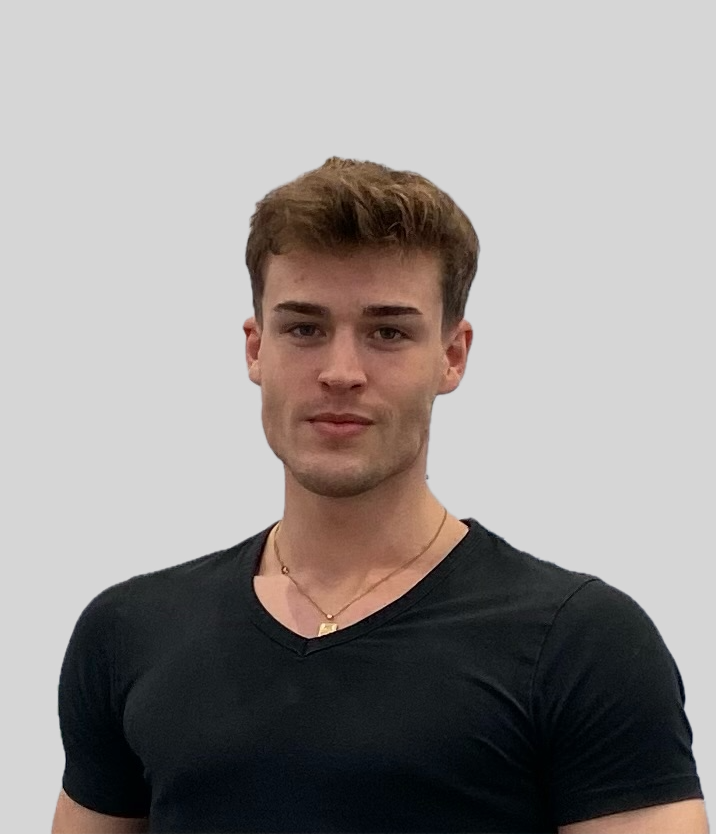
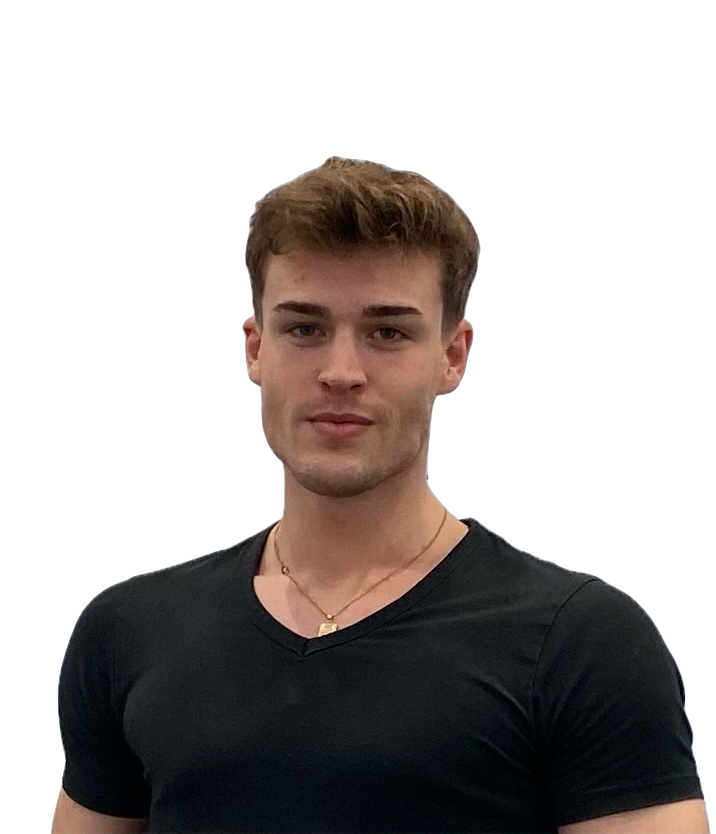
Refactor CSS styles to use CSS variables for improved maintainability and enhance design with new marbled background

diff --git a/assets/styles/design-study.css b/assets/styles/design-study.css
@@ -1,3 +1,10 @@
+/* Shared colors for the current design palette. */
+:root {
+  --dark-accent: #293d46;
+  --portrait-background: #738080;
+  --light-panel-ink: #34474d;
+}
+
 :root {
   --ink: #293b44;
   --navy: #334650;
@@ -992,16 +999,16 @@ body {
 }
 
 .portrait-frame {
-  background-color: #738080;
+  background-color: var(--portrait-background);
 }
 
 .intro-section {
   background: #d6d4c9;
-  color: #34474d;
+  color: var(--light-panel-ink);
 }
 
 .intro-body h2 {
-  color: #34474d;
+  color: var(--light-panel-ink);
 }
 
 .intro-columns .muted {
@@ -1029,7 +1036,7 @@ body {
 }
 
 .projects-section {
-  background: #293d46;
+  background: var(--dark-accent);
 }
 
 .featured-project {
@@ -1065,4 +1072,63 @@ body {
 .footer p,
 .footer-inner>span {
   color: #bec9c4;
+}
+/* Evenly distributed slate and warm-gray marbling. */
+body {
+  background-color: #536168;
+  background-image:
+    radial-gradient(ellipse 18% 7% at 89% 10%, rgba(217, 194, 166, 0.083), transparent 75%),
+    radial-gradient(ellipse 17% 6% at 96% 33%, rgba(227, 183, 145, 0.075), transparent 75%),
+    radial-gradient(ellipse 18% 7% at 83% 50%, rgba(196, 209, 196, 0.075), transparent 75%),
+    radial-gradient(ellipse 17% 7% at 97% 69%, rgba(221, 180, 145, 0.075), transparent 75%),
+    radial-gradient(ellipse 18% 7% at 79% 80%, rgba(204, 210, 190, 0.075), transparent 75%),
+    radial-gradient(ellipse 15% 5% at 9% 7%, rgba(233, 185, 144, 0.075), transparent 75%),
+    radial-gradient(ellipse 17% 6% at 48% 19%, rgba(195, 209, 199, 0.075), transparent 75%),
+    radial-gradient(ellipse 16% 5% at 94% 22%, rgba(231, 181, 140, 0.068), transparent 75%),
+    radial-gradient(ellipse 16% 6% at 16% 29%, rgba(197, 210, 199, 0.068), transparent 75%),
+    radial-gradient(ellipse 17% 5% at 69% 40%, rgba(232, 190, 147, 0.075), transparent 75%),
+    radial-gradient(ellipse 15% 6% at 38% 46%, rgba(194, 208, 200, 0.075), transparent 75%),
+    radial-gradient(ellipse 18% 6% at 93% 55%, rgba(228, 180, 138, 0.068), transparent 75%),
+    radial-gradient(ellipse 16% 6% at 18% 66%, rgba(222, 180, 146, 0.075), transparent 75%),
+    radial-gradient(ellipse 16% 5% at 56% 73%, rgba(193, 209, 200, 0.075), transparent 75%),
+    radial-gradient(ellipse 17% 6% at 88% 91%, rgba(231, 188, 147, 0.075), transparent 75%),
+    radial-gradient(ellipse 17% 5% at 45% 96%, rgba(199, 210, 196, 0.068), transparent 75%),
+    radial-gradient(ellipse 24% 12% at 15% 12%, rgba(221, 175, 137, 0.075), transparent 75%),
+    radial-gradient(ellipse 25% 12% at 70% 13%, rgba(200, 203, 184, 0.075), transparent 75%),
+    radial-gradient(ellipse 25% 12% at 37% 31%, rgba(200, 193, 172, 0.075), transparent 75%),
+    radial-gradient(ellipse 25% 12% at 88% 37%, rgba(216, 172, 140, 0.075), transparent 75%),
+    radial-gradient(ellipse 25% 12% at 14% 51%, rgba(203, 192, 168, 0.075), transparent 75%),
+    radial-gradient(ellipse 25% 12% at 67% 58%, rgba(215, 178, 146, 0.075), transparent 75%),
+    radial-gradient(ellipse 25% 12% at 33% 76%, rgba(200, 200, 178, 0.075), transparent 75%),
+    radial-gradient(ellipse 25% 12% at 86% 83%, rgba(215, 178, 143, 0.075), transparent 75%),
+    radial-gradient(ellipse 30% 14% at 17% 96%, rgba(210, 183, 155, 0.075), transparent 75%),
+    linear-gradient(145deg, #4c6069, #59666a 50%, #4b5f68);
+}
+
+/* A solid backdrop and dark frame for the portrait. */
+.portrait-frame {
+  overflow: hidden;
+  border: 8px solid var(--dark-accent);
+  background: var(--portrait-background);
+}
+
+/* Increase legibility over the marbled background. */
+:root {
+  --hero-text: #faf8ef;
+  --hero-secondary: #edf1eb;
+  --hero-accent: #ffe0a0;
+}
+
+.hero h1,
+.hero-description,
+.profile-links span {
+  color: var(--hero-text);
+}
+
+.hero .introduction {
+  color: var(--hero-secondary);
+}
+
+.hero-affiliation {
+  color: var(--hero-accent);
 }

diff --git a/prototype/style.css b/prototype/style.css
@@ -1,3 +1,10 @@
+/* Shared colors for the current design palette. */
+:root {
+  --dark-accent: #293d46;
+  --portrait-background: #738080;
+  --light-panel-ink: #34474d;
+}
+
 :root {
   --ink: #293b44;
   --navy: #334650;
@@ -992,16 +999,16 @@ body {
 }
 
 .portrait-frame {
-  background-color: #738080;
+  background-color: var(--portrait-background);
 }
 
 .intro-section {
   background: #d6d4c9;
-  color: #34474d;
+  color: var(--light-panel-ink);
 }
 
 .intro-body h2 {
-  color: #34474d;
+  color: var(--light-panel-ink);
 }
 
 .intro-columns .muted {
@@ -1029,7 +1036,7 @@ body {
 }
 
 .projects-section {
-  background: #293d46;
+  background: var(--dark-accent);
 }
 
 .featured-project {
@@ -1065,4 +1072,63 @@ body {
 .footer p,
 .footer-inner>span {
   color: #bec9c4;
+}
+
+/* Evenly distributed slate and warm-gray marbling. */
+body {
+  background-color: #536168;
+  background-image:
+    radial-gradient(ellipse 18% 7% at 89% 10%, rgba(217, 194, 166, 0.083), transparent 75%),
+    radial-gradient(ellipse 17% 6% at 96% 33%, rgba(227, 183, 145, 0.075), transparent 75%),
+    radial-gradient(ellipse 18% 7% at 83% 50%, rgba(196, 209, 196, 0.075), transparent 75%),
+    radial-gradient(ellipse 17% 7% at 97% 69%, rgba(221, 180, 145, 0.075), transparent 75%),
+    radial-gradient(ellipse 18% 7% at 79% 80%, rgba(204, 210, 190, 0.075), transparent 75%),
+    radial-gradient(ellipse 15% 5% at 9% 7%, rgba(233, 185, 144, 0.075), transparent 75%),
+    radial-gradient(ellipse 17% 6% at 48% 19%, rgba(195, 209, 199, 0.075), transparent 75%),
+    radial-gradient(ellipse 16% 5% at 94% 22%, rgba(231, 181, 140, 0.068), transparent 75%),
+    radial-gradient(ellipse 16% 6% at 16% 29%, rgba(197, 210, 199, 0.068), transparent 75%),
+    radial-gradient(ellipse 17% 5% at 69% 40%, rgba(232, 190, 147, 0.075), transparent 75%),
+    radial-gradient(ellipse 15% 6% at 38% 46%, rgba(194, 208, 200, 0.075), transparent 75%),
+    radial-gradient(ellipse 18% 6% at 93% 55%, rgba(228, 180, 138, 0.068), transparent 75%),
+    radial-gradient(ellipse 16% 6% at 18% 66%, rgba(222, 180, 146, 0.075), transparent 75%),
+    radial-gradient(ellipse 16% 5% at 56% 73%, rgba(193, 209, 200, 0.075), transparent 75%),
+    radial-gradient(ellipse 17% 6% at 88% 91%, rgba(231, 188, 147, 0.075), transparent 75%),
+    radial-gradient(ellipse 17% 5% at 45% 96%, rgba(199, 210, 196, 0.068), transparent 75%),
+    radial-gradient(ellipse 24% 12% at 15% 12%, rgba(221, 175, 137, 0.075), transparent 75%),
+    radial-gradient(ellipse 25% 12% at 70% 13%, rgba(200, 203, 184, 0.075), transparent 75%),
+    radial-gradient(ellipse 25% 12% at 37% 31%, rgba(200, 193, 172, 0.075), transparent 75%),
+    radial-gradient(ellipse 25% 12% at 88% 37%, rgba(216, 172, 140, 0.075), transparent 75%),
+    radial-gradient(ellipse 25% 12% at 14% 51%, rgba(203, 192, 168, 0.075), transparent 75%),
+    radial-gradient(ellipse 25% 12% at 67% 58%, rgba(215, 178, 146, 0.075), transparent 75%),
+    radial-gradient(ellipse 25% 12% at 33% 76%, rgba(200, 200, 178, 0.075), transparent 75%),
+    radial-gradient(ellipse 25% 12% at 86% 83%, rgba(215, 178, 143, 0.075), transparent 75%),
+    radial-gradient(ellipse 30% 14% at 17% 96%, rgba(210, 183, 155, 0.075), transparent 75%),
+    linear-gradient(145deg, #4c6069, #59666a 50%, #4b5f68);
+}
+
+/* A solid backdrop and dark frame for the portrait. */
+.portrait-frame {
+  overflow: hidden;
+  border: 4px solid var(--dark-accent);
+  background: #536168;
+}
+/* Increase legibility over the marbled background. */
+:root {
+  --hero-text: #faf8ef;
+  --hero-secondary: #edf1eb;
+  --hero-accent: #ffe0a0;
+}
+
+.hero h1,
+.hero-description,
+.profile-links span {
+  color: var(--hero-text);
+}
+
+.hero .introduction {
+  color: var(--hero-secondary);
+}
+
+.hero-affiliation {
+  color: var(--hero-accent);
 }
